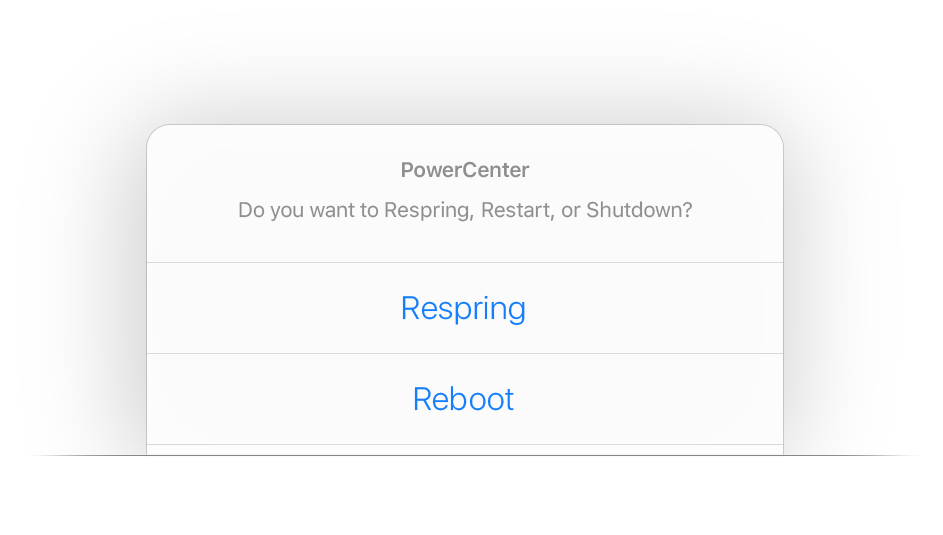
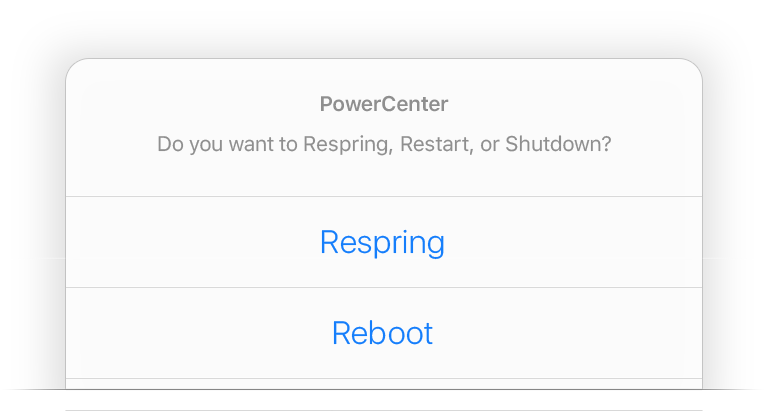
powercenter header in depiction

diff --git a/beta/depictions/PowerCenter/index.html b/beta/depictions/PowerCenter/index.html
@@ -370,7 +370,7 @@ footer :last-child {
   <main id="content" role="main">
     <ulHEADER>
       <li>
-    <center><a><img alt="Logo" src="images/header.png" style="width: 75%"/></a></center>
+    <center><a><img alt="Logo" src="images/header.png" style="width: 100%"/></a></center>
       </li>
     </ulHEADER>
     <h2 id="information-notes">Description</h2>
